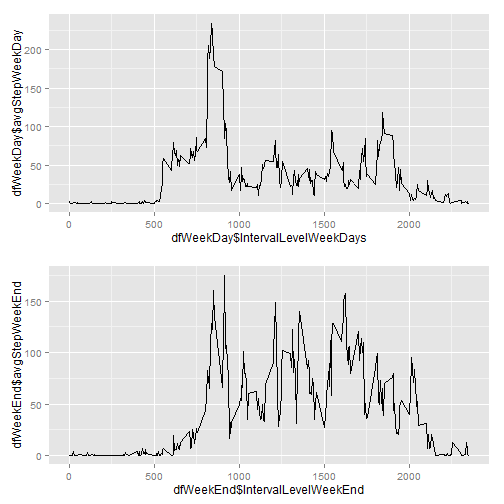
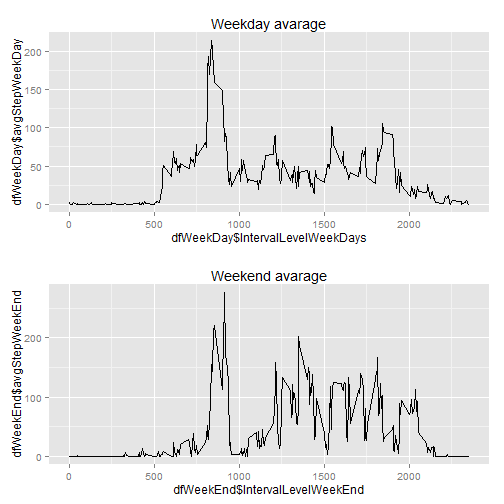
update changes

Changed region(s): [[0.0, 0.0298, 0.9821, 0.4167], [0.0, 0.5655, 0.9524, 0.9226], [0.0893, 0.506, 0.9821, 0.5655]]

diff --git a/PA1_template.html b/PA1_template.html
@@ -184,8 +184,8 @@ hljs.initHighlightingOnLoad();
 <h2>Loading and preprocessing the data</h2>
 
 <pre><code class="r">require(stats)
-data &lt;- read.csv(unzip(&quot;activity.zip&quot;, &quot;activity.csv&quot;))  #read data from .zip file
-data$Date &lt;- as.Date(data$date, &quot;%Y-%m-%d&quot;)  #convert date
+data &lt;- read.csv(unzip(&quot;activity.zip&quot;, &quot;activity.csv&quot;)) #read data from .zip file
+data$Date &lt;- as.Date(data$date,&quot;%Y-%m-%d&quot;) #convert date
 </code></pre>
 
 <h2>What is mean total number of steps taken per day?</h2>
@@ -194,9 +194,8 @@ data$Date &lt;- as.Date(data$date, &quot;%Y-%m-%d&quot;)  #convert date
 <li>Make a histogram of the total number of steps taken each day</li>
 </ul>
 
-<pre><code class="r">totalStepsPerDay &lt;- tapply(data$steps, data$Date, sum, na.rm = T)  #calculate total number of steps per day
-hist(totalStepsPerDay, main = &quot;Total Number of Steps Taken Each Day&quot;, col = &quot;red&quot;, 
-    xlab = &quot;Total Steps Per Day&quot;)
+<pre><code class="r">totalStepsPerDay &lt;- tapply(data$steps, data$Date, sum, na.rm=T) #calculate total number of steps per day
+hist(totalStepsPerDay,main=&quot;Total Number of Steps Taken Each Day&quot;,col=&quot;red&quot;,xlab=&quot;Total Steps Per Day&quot;)
 </code></pre>
 
[1 lines of base64/hex data omitted]
@@ -212,7 +211,7 @@ hist(totalStepsPerDay, main = &quot;Total Number of Steps Taken Each Day&quot;, 
 ##       0    6780   10400    9350   12800   21200
 </code></pre>
 
-<pre><code class="r">meanStepPerDay &lt;- tapply(data$steps, data$Date, mean, na.rm = T)  #calcuate mean
+<pre><code class="r">meanStepPerDay&lt;-tapply(data$steps, data$Date, mean, na.rm=T) #calcuate mean
 summary(meanStepPerDay)
 </code></pre>
 
@@ -227,13 +226,11 @@ summary(meanStepPerDay)
 </ul>
 
 <pre><code class="r">data$IntervalFactor &lt;- as.factor(data$interval)  #convert interval into factor type so as to apply level fcn
-intervalLevel &lt;- levels(data$IntervalFactor)
-stepsMeanPerInterval &lt;- tapply(data$steps, data$IntervalFactor, mean, na.rm = T)  #calculate mean
-tempDF &lt;- data.frame(stepsMeanPerInterval, as.numeric(intervalLevel))  #temporarily store as data fram 
+intervalLevel&lt;-levels(data$IntervalFactor)
+stepsMeanPerInterval &lt;- tapply(data$steps, data$IntervalFactor, mean, na.rm = T) #calculate mean
+tempDF&lt;-data.frame(stepsMeanPerInterval, as.numeric(intervalLevel)) #temporarily store as data fram 
 library(ggplot2)
-ggplot(tempDF, aes(as.numeric(intervalLevel), stepsMeanPerInterval)) + geom_line(colour = &quot;blue&quot;) + 
-    ggtitle(&quot;Time Series Plot-Avarage Daily Activity Pattern&quot;) + ylab(&quot;Average Number of Steps&quot;) + 
-    xlab(&quot;5 minutes interval&quot;)  # use ggplot to plot
+ggplot(tempDF, aes(as.numeric(intervalLevel), stepsMeanPerInterval))+geom_line(colour = &quot;blue&quot;) + ggtitle(&quot;Time Series Plot-Avarage Daily Activity Pattern&quot;) + ylab(&quot;Average Number of Steps&quot;)+ xlab(&quot;5 minutes interval&quot;) # use ggplot to plot
 </code></pre>
 
[1 lines of base64/hex data omitted]
@@ -257,9 +254,8 @@ ggplot(tempDF, aes(as.numeric(intervalLevel), stepsMeanPerInterval)) + geom_line
 <li>Calculate and report the total number of missing values in the dataset (i.e. the total number of rows with NAs)</li>
 </ul>
 
-<pre><code class="r">naSubset &lt;- subset.data.frame(data, is.na(data$steps) == T | is.na(data$date) == 
-    T | is.na(data$interval) == T, select = steps:IntervalFactor)  # extract rows with NA value
-totalNumNA &lt;- nrow(naSubset)  # count total number of missing values
+<pre><code class="r">naSubset&lt;-subset.data.frame(data,is.na(data$steps)==T | is.na(data$date)==T | is.na(data$interval)==T ,select= steps:IntervalFactor) # extract rows with NA value
+totalNumNA &lt;- nrow(naSubset) # count total number of missing values
 print(totalNumNA)
 </code></pre>
 
@@ -272,25 +268,23 @@ print(totalNumNA)
 <li>Devise a strategy for filling in all of the missing values in the dataset. The strategy does not need to be sophisticated. For example, you could use the mean/median for that day, or the mean for that 5-minute interval, etc.</li>
 </ul>
 
-<pre><code class="r">k &lt;- which(is.na(data$steps))  # extract only the row with NA
+<pre><code class="r">k&lt;-which(is.na(data$steps)) # extract only the row with NA
 </code></pre>
 
 <ul>
 <li>Create a new dataset that is equal to the original dataset but with the missing data filled in.</li>
 </ul>
 
-<pre><code class="r">dataWithoutNA &lt;- data
-dataWithoutNA$steps[k] &lt;- meanStepPerDay[as.character(data$Date[k])]
+<pre><code class="r">dataWithoutNA&lt;-data
+dataWithoutNA$steps[k]&lt;-meanStepPerDay[as.character(data$Date[k])]
 </code></pre>
 
 <ul>
 <li>Make a histogram of the total number of steps taken each day and Calculate and report the mean and median total number of steps taken per day. Do these values differ from the estimates from the first part of the assignment? What is the impact of imputing missing data on the estimates of the total daily number of steps?</li>
 </ul>
 
-<pre><code class="r">totalStepsPerDayWithoutNA &lt;- tapply(dataWithoutNA$steps, dataWithoutNA$Date, 
-    sum, na.rm = T)  #calculate total number of steps per day
-hist(totalStepsPerDayWithoutNA, main = &quot;Total Number of Steps Taken Each Day (with NA filled)&quot;, 
-    col = &quot;green&quot;, xlab = &quot;Total Steps Per Day&quot;)
+<pre><code class="r">totalStepsPerDayWithoutNA &lt;- tapply(dataWithoutNA$steps, dataWithoutNA$Date, sum, na.rm=T) #calculate total number of steps per day
+hist(totalStepsPerDayWithoutNA,main=&quot;Total Number of Steps Taken Each Day (with NA filled)&quot;,col=&quot;green&quot;,xlab=&quot;Total Steps Per Day&quot;)
 </code></pre>
 
[1 lines of base64/hex data omitted]
@@ -302,8 +296,7 @@ hist(totalStepsPerDayWithoutNA, main = &quot;Total Number of Steps Taken Each Da
 ##       0    6780   10400    9350   12800   21200
 </code></pre>
 
-<pre><code class="r">meanStepPerDayWithoutNA &lt;- tapply(dataWithoutNA$steps, dataWithoutNA$Date, mean, 
-    na.rm = T)  #calcuate mean
+<pre><code class="r">meanStepPerDayWithoutNA&lt;-tapply(dataWithoutNA$steps, dataWithoutNA$Date, mean, na.rm=T) #calcuate mean
 summary(meanStepPerDayWithoutNA)
 </code></pre>
 
@@ -375,46 +368,41 @@ summary(meanStepPerDayWithoutNA)
 
 <pre><code class="r">data$Days &lt;- weekdays(as.Date(as.character(data$date)))
 
-k &lt;- data$Days == &quot;Saturday&quot; | data$Days == &quot;Sunday&quot;
+k &lt;- data$Days==&quot;Samstag&quot; | data$Days==&quot;Sontag&quot; #my R locale is in German
 
-data$Days[k] = &quot;Weekend&quot;  # change to weekend
-data$Days[!k] = &quot;Weekday&quot;  # then change to weekday
+data$Days[k] = &quot;Weekend&quot; # change to weekend
+data$Days[!k] = &quot;Weekday&quot; # then change to weekday
 
-dataWeekEnd &lt;- data[data$Days == &quot;Weekend&quot;, ]  #copy each data
-dataWeekDay &lt;- data[data$Days == &quot;Weekday&quot;, ]
+dataWeekEnd&lt;- data[data$Days == &quot;Weekend&quot;, ] #copy each data
+dataWeekDay&lt;- data[data$Days == &quot;Weekday&quot;, ] #copy each data
 
-IntervalLevelWeekDays &lt;- as.numeric(levels(as.factor(dataWeekDay$interval)))  # level the interval of each data group
+IntervalLevelWeekDays &lt;- as.numeric(levels(as.factor(dataWeekDay$interval))) # level the interval of each data group
 IntervalLevelWeekEnd &lt;- as.numeric(levels(as.factor(dataWeekEnd$interval)))
 
-avgStepWeekDay &lt;- tapply(dataWeekDay$steps, dataWeekDay$interval, mean, na.rm = T)  # compute avarage steps of each data group
-avgStepWeekEnd &lt;- tapply(dataWeekEnd$steps, dataWeekEnd$interval, mean, na.rm = T)
+avgStepWeekDay &lt;- tapply(dataWeekDay$steps, dataWeekDay$interval, mean,na.rm=T) # compute avarage steps of each data group
+avgStepWeekEnd &lt;- tapply(dataWeekEnd$steps, dataWeekEnd$interval, mean,na.rm=T)
 
-dfWeekDay &lt;- cbind.data.frame(avgStepWeekDay, IntervalLevelWeekDays)  # binding data into data frame for plotting
-dfWeekEnd &lt;- cbind.data.frame(avgStepWeekEnd, IntervalLevelWeekEnd)
+dfWeekDay &lt;- cbind.data.frame(avgStepWeekDay,IntervalLevelWeekDays) # binding data into data frame for plotting
+dfWeekEnd &lt;- cbind.data.frame(avgStepWeekEnd,IntervalLevelWeekEnd)
 </code></pre>
 
 <ul>
 <li>Make a panel plot containing a time series plot (i.e. type = &ldquo;l&rdquo;) of the 5-minute interval (x-axis) and the average number of steps taken, averaged across all weekday days or weekend days (y-axis). </li>
 </ul>
 
-<pre><code class="r">plot(dfWeekDay$IntervalLevelWeekDays, dfWeekDay$avgStepWeekDay, type = &quot;l&quot;, 
-    main = &quot;Comparison of the Average Number of Steps\n between Weekdays and the Weekend&quot;, 
-    col = &quot;blue&quot;, xlab = &quot;Steps Interval&quot;, ylab = &quot;Average Number of Steps&quot;)  #plot weekday data
-lines(dfWeekEnd$IntervalLevelWeekEnd, dfWeekEnd$avgStepWeekEnd, col = &quot;red&quot;)  #plot weekend data
-legend(&quot;topright&quot;, c(&quot;Weekday&quot;, &quot;Weekend&quot;), col = c(&quot;blue&quot;, &quot;red&quot;), lty = 1)  # annotate legend
+<pre><code class="r">plot(dfWeekDay$IntervalLevelWeekDays, dfWeekDay$avgStepWeekDay, type = &quot;l&quot;, main = &quot;Comparison of the Average Number of Steps\n between Weekdays and the Weekend&quot;, col=&quot;blue&quot;, xlab = &quot;Steps Interval&quot;, ylab = &quot;Average Number of Steps&quot;) #plot weekday data
+lines(dfWeekEnd$IntervalLevelWeekEnd, dfWeekEnd$avgStepWeekEnd, col = &quot;red&quot;) #plot weekend data
+legend(&quot;topright&quot;, c(&quot;Weekday&quot;, &quot;Weekend&quot;), col = c(&quot;blue&quot;, &quot;red&quot;), lty = 1) # annotate legend
 
 library(grid)
-p1 &lt;- ggplot(dfWeekDay, aes(x = dfWeekDay$IntervalLevelWeekDays, y = dfWeekDay$avgStepWeekDay)) + 
-    geom_line()
-p2 &lt;- ggplot(dfWeekEnd, aes(x = dfWeekEnd$IntervalLevelWeekEnd, y = dfWeekEnd$avgStepWeekEnd)) + 
-    geom_line()
-
-pushViewport(viewport(layout = grid.layout(2, 1)))
-print(p1, vp = viewport(layout.pos.row = 1, layout.pos.col = 1))
-print(p2, vp = viewport(layout.pos.row = 2, layout.pos.col = 1))
+p1&lt;- ggplot(dfWeekDay,aes(x=dfWeekDay$IntervalLevelWeekDays,y=dfWeekDay$avgStepWeekDay))+geom_line()
+p2&lt;- ggplot(dfWeekEnd,aes(x=dfWeekEnd$IntervalLevelWeekEnd,y=dfWeekEnd$avgStepWeekEnd))+geom_line()
+pushViewport(viewport(layout = grid.layout(2, 1)))  
+print(p1+ggtitle(&quot;Weekday avarage&quot;),vp = viewport(layout.pos.row = 1, layout.pos.col = 1))     
+print(p2+ggtitle(&quot;Weekend avarage&quot;),vp = viewport(layout.pos.row = 2, layout.pos.col = 1))     
 </code></pre>
 
[2 lines of base64/hex data omitted]
 
 </body>
 

diff --git a/PA1_template.md b/PA1_template.md
@@ -5,21 +5,18 @@
 
 ```r
 require(stats)
-data <- read.csv(unzip("activity.zip", "activity.csv"))  #read data from .zip file
-data$Date <- as.Date(data$date, "%Y-%m-%d")  #convert date
+data <- read.csv(unzip("activity.zip", "activity.csv")) #read data from .zip file
+data$Date <- as.Date(data$date,"%Y-%m-%d") #convert date
 ```
-
 ## What is mean total number of steps taken per day?
 * Make a histogram of the total number of steps taken each day
 
 ```r
-totalStepsPerDay <- tapply(data$steps, data$Date, sum, na.rm = T)  #calculate total number of steps per day
-hist(totalStepsPerDay, main = "Total Number of Steps Taken Each Day", col = "red", 
-    xlab = "Total Steps Per Day")
+totalStepsPerDay <- tapply(data$steps, data$Date, sum, na.rm=T) #calculate total number of steps per day
+hist(totalStepsPerDay,main="Total Number of Steps Taken Each Day",col="red",xlab="Total Steps Per Day")
 ```
 
 ![plot of chunk unnamed-chunk-2](figure/unnamed-chunk-2.png) 
-
 * Calculate and report the **mean** and **median** total number of steps taken per day
 
 ```r
@@ -32,7 +29,7 @@ summary(totalStepsPerDay)
 ```
 
 ```r
-meanStepPerDay <- tapply(data$steps, data$Date, mean, na.rm = T)  #calcuate mean
+meanStepPerDay<-tapply(data$steps, data$Date, mean, na.rm=T) #calcuate mean
 summary(meanStepPerDay)
 ```
 
@@ -41,23 +38,19 @@ summary(meanStepPerDay)
 ##    0.14   30.70   37.40   37.40   46.20   73.60       8
 ```
 
-
 ## What is the average daily activity pattern?
 * Make a time series plot (i.e. type = "l") of the 5-minute interval (x-axis) and the average number of steps taken, averaged across all days (y-axis)
 
 ```r
 data$IntervalFactor <- as.factor(data$interval)  #convert interval into factor type so as to apply level fcn
-intervalLevel <- levels(data$IntervalFactor)
-stepsMeanPerInterval <- tapply(data$steps, data$IntervalFactor, mean, na.rm = T)  #calculate mean
-tempDF <- data.frame(stepsMeanPerInterval, as.numeric(intervalLevel))  #temporarily store as data fram 
+intervalLevel<-levels(data$IntervalFactor)
+stepsMeanPerInterval <- tapply(data$steps, data$IntervalFactor, mean, na.rm = T) #calculate mean
+tempDF<-data.frame(stepsMeanPerInterval, as.numeric(intervalLevel)) #temporarily store as data fram 
 library(ggplot2)
-ggplot(tempDF, aes(as.numeric(intervalLevel), stepsMeanPerInterval)) + geom_line(colour = "blue") + 
-    ggtitle("Time Series Plot-Avarage Daily Activity Pattern") + ylab("Average Number of Steps") + 
-    xlab("5 minutes interval")  # use ggplot to plot
+ggplot(tempDF, aes(as.numeric(intervalLevel), stepsMeanPerInterval))+geom_line(colour = "blue") + ggtitle("Time Series Plot-Avarage Daily Activity Pattern") + ylab("Average Number of Steps")+ xlab("5 minutes interval") # use ggplot to plot
 ```
 
 ![plot of chunk unnamed-chunk-4](figure/unnamed-chunk-4.png) 
-
 * Which 5-minute interval, on average across all the days in the dataset, contains the maximum number of steps?
 
 ```r
@@ -68,44 +61,37 @@ stepsMeanPerInterval[which.max(stepsMeanPerInterval)]
 ##   835 
 ## 206.2
 ```
-
 The interval 835 has maximum avarage.
 
 ## Imputing missing values
 * Calculate and report the total number of missing values in the dataset (i.e. the total number of rows with NAs)
 
 ```r
-naSubset <- subset.data.frame(data, is.na(data$steps) == T | is.na(data$date) == 
-    T | is.na(data$interval) == T, select = steps:IntervalFactor)  # extract rows with NA value
-totalNumNA <- nrow(naSubset)  # count total number of missing values
+naSubset<-subset.data.frame(data,is.na(data$steps)==T | is.na(data$date)==T | is.na(data$interval)==T ,select= steps:IntervalFactor) # extract rows with NA value
+totalNumNA <- nrow(naSubset) # count total number of missing values
 print(totalNumNA)
 ```
 
 ```
 ## [1] 2304
 ```
-
   Total number of rows with NA is 2304, NA appears only in columns data$step .
 * Devise a strategy for filling in all of the missing values in the dataset. The strategy does not need to be sophisticated. For example, you could use the mean/median for that day, or the mean for that 5-minute interval, etc.
 
 ```r
-k <- which(is.na(data$steps))  # extract only the row with NA
+k<-which(is.na(data$steps)) # extract only the row with NA
 ```
-
 * Create a new dataset that is equal to the original dataset but with the missing data filled in.
 
 ```r
-dataWithoutNA <- data
-dataWithoutNA$steps[k] <- meanStepPerDay[as.character(data$Date[k])]
+dataWithoutNA<-data
+dataWithoutNA$steps[k]<-meanStepPerDay[as.character(data$Date[k])]
 ```
-
 * Make a histogram of the total number of steps taken each day and Calculate and report the mean and median total number of steps taken per day. Do these values differ from the estimates from the first part of the assignment? What is the impact of imputing missing data on the estimates of the total daily number of steps?
 
 ```r
-totalStepsPerDayWithoutNA <- tapply(dataWithoutNA$steps, dataWithoutNA$Date, 
-    sum, na.rm = T)  #calculate total number of steps per day
-hist(totalStepsPerDayWithoutNA, main = "Total Number of Steps Taken Each Day (with NA filled)", 
-    col = "green", xlab = "Total Steps Per Day")
+totalStepsPerDayWithoutNA <- tapply(dataWithoutNA$steps, dataWithoutNA$Date, sum, na.rm=T) #calculate total number of steps per day
+hist(totalStepsPerDayWithoutNA,main="Total Number of Steps Taken Each Day (with NA filled)",col="green",xlab="Total Steps Per Day")
 ```
 
 ![plot of chunk unnamed-chunk-9](figure/unnamed-chunk-9.png) 
@@ -120,8 +106,7 @@ summary(totalStepsPerDayWithoutNA)
 ```
 
 ```r
-meanStepPerDayWithoutNA <- tapply(dataWithoutNA$steps, dataWithoutNA$Date, mean, 
-    na.rm = T)  #calcuate mean
+meanStepPerDayWithoutNA<-tapply(dataWithoutNA$steps, dataWithoutNA$Date, mean, na.rm=T) #calcuate mean
 summary(meanStepPerDayWithoutNA)
 ```
 
@@ -129,7 +114,6 @@ summary(meanStepPerDayWithoutNA)
 ##    Min. 1st Qu.  Median    Mean 3rd Qu.    Max.    NA's 
 ##    0.14   30.70   37.40   37.40   46.20   73.60       8
 ```
-
 
 totalStepsPerDayWithoutNA and totalStepPerDay are still the same.
 
@@ -191,53 +175,45 @@ totalStepsPerDayWithoutNA
 ##          0
 ```
 
-
 ## Are there differences in activity patterns between weekdays and weekends?
 * Create a new factor variable in the dataset with two levels  weekday and weekend indicating whether a given date is a weekday or weekend day.
 
 ```r
 data$Days <- weekdays(as.Date(as.character(data$date)))
 
-k <- data$Days == "Saturday" | data$Days == "Sunday"
+k <- data$Days=="Samstag" | data$Days=="Sontag" #my R locale is in German
 
-data$Days[k] = "Weekend"  # change to weekend
-data$Days[!k] = "Weekday"  # then change to weekday
+data$Days[k] = "Weekend" # change to weekend
+data$Days[!k] = "Weekday" # then change to weekday
 
-dataWeekEnd <- data[data$Days == "Weekend", ]  #copy each data
-dataWeekDay <- data[data$Days == "Weekday", ]
+dataWeekEnd<- data[data$Days == "Weekend", ] #copy each data
+dataWeekDay<- data[data$Days == "Weekday", ] #copy each data
 
-IntervalLevelWeekDays <- as.numeric(levels(as.factor(dataWeekDay$interval)))  # level the interval of each data group
+IntervalLevelWeekDays <- as.numeric(levels(as.factor(dataWeekDay$interval))) # level the interval of each data group
 IntervalLevelWeekEnd <- as.numeric(levels(as.factor(dataWeekEnd$interval)))
 
-avgStepWeekDay <- tapply(dataWeekDay$steps, dataWeekDay$interval, mean, na.rm = T)  # compute avarage steps of each data group
-avgStepWeekEnd <- tapply(dataWeekEnd$steps, dataWeekEnd$interval, mean, na.rm = T)
+avgStepWeekDay <- tapply(dataWeekDay$steps, dataWeekDay$interval, mean,na.rm=T) # compute avarage steps of each data group
+avgStepWeekEnd <- tapply(dataWeekEnd$steps, dataWeekEnd$interval, mean,na.rm=T)
 
-dfWeekDay <- cbind.data.frame(avgStepWeekDay, IntervalLevelWeekDays)  # binding data into data frame for plotting
-dfWeekEnd <- cbind.data.frame(avgStepWeekEnd, IntervalLevelWeekEnd)
+dfWeekDay <- cbind.data.frame(avgStepWeekDay,IntervalLevelWeekDays) # binding data into data frame for plotting
+dfWeekEnd <- cbind.data.frame(avgStepWeekEnd,IntervalLevelWeekEnd)
 ```
-
 * Make a panel plot containing a time series plot (i.e. type = "l") of the 5-minute interval (x-axis) and the average number of steps taken, averaged across all weekday days or weekend days (y-axis). 
 
 ```r
-plot(dfWeekDay$IntervalLevelWeekDays, dfWeekDay$avgStepWeekDay, type = "l", 
-    main = "Comparison of the Average Number of Steps\n between Weekdays and the Weekend", 
-    col = "blue", xlab = "Steps Interval", ylab = "Average Number of Steps")  #plot weekday data
-lines(dfWeekEnd$IntervalLevelWeekEnd, dfWeekEnd$avgStepWeekEnd, col = "red")  #plot weekend data
-legend("topright", c("Weekday", "Weekend"), col = c("blue", "red"), lty = 1)  # annotate legend
+plot(dfWeekDay$IntervalLevelWeekDays, dfWeekDay$avgStepWeekDay, type = "l", main = "Comparison of the Average Number of Steps\n between Weekdays and the Weekend", col="blue", xlab = "Steps Interval", ylab = "Average Number of Steps") #plot weekday data
+lines(dfWeekEnd$IntervalLevelWeekEnd, dfWeekEnd$avgStepWeekEnd, col = "red") #plot weekend data
+legend("topright", c("Weekday", "Weekend"), col = c("blue", "red"), lty = 1) # annotate legend
 
 library(grid)
-p1 <- ggplot(dfWeekDay, aes(x = dfWeekDay$IntervalLevelWeekDays, y = dfWeekDay$avgStepWeekDay)) + 
-    geom_line()
-p2 <- ggplot(dfWeekEnd, aes(x = dfWeekEnd$IntervalLevelWeekEnd, y = dfWeekEnd$avgStepWeekEnd)) + 
-    geom_line()
-
-pushViewport(viewport(layout = grid.layout(2, 1)))
-print(p1, vp = viewport(layout.pos.row = 1, layout.pos.col = 1))
-print(p2, vp = viewport(layout.pos.row = 2, layout.pos.col = 1))
+p1<- ggplot(dfWeekDay,aes(x=dfWeekDay$IntervalLevelWeekDays,y=dfWeekDay$avgStepWeekDay))+geom_line()
+p2<- ggplot(dfWeekEnd,aes(x=dfWeekEnd$IntervalLevelWeekEnd,y=dfWeekEnd$avgStepWeekEnd))+geom_line()
+pushViewport(viewport(layout = grid.layout(2, 1)))  
+print(p1+ggtitle("Weekday avarage"),vp = viewport(layout.pos.row = 1, layout.pos.col = 1))     
+print(p2+ggtitle("Weekend avarage"),vp = viewport(layout.pos.row = 2, layout.pos.col = 1))     
 ```
 
 ![plot of chunk unnamed-chunk-12](figure/unnamed-chunk-12.png) 
-
 
 
 
